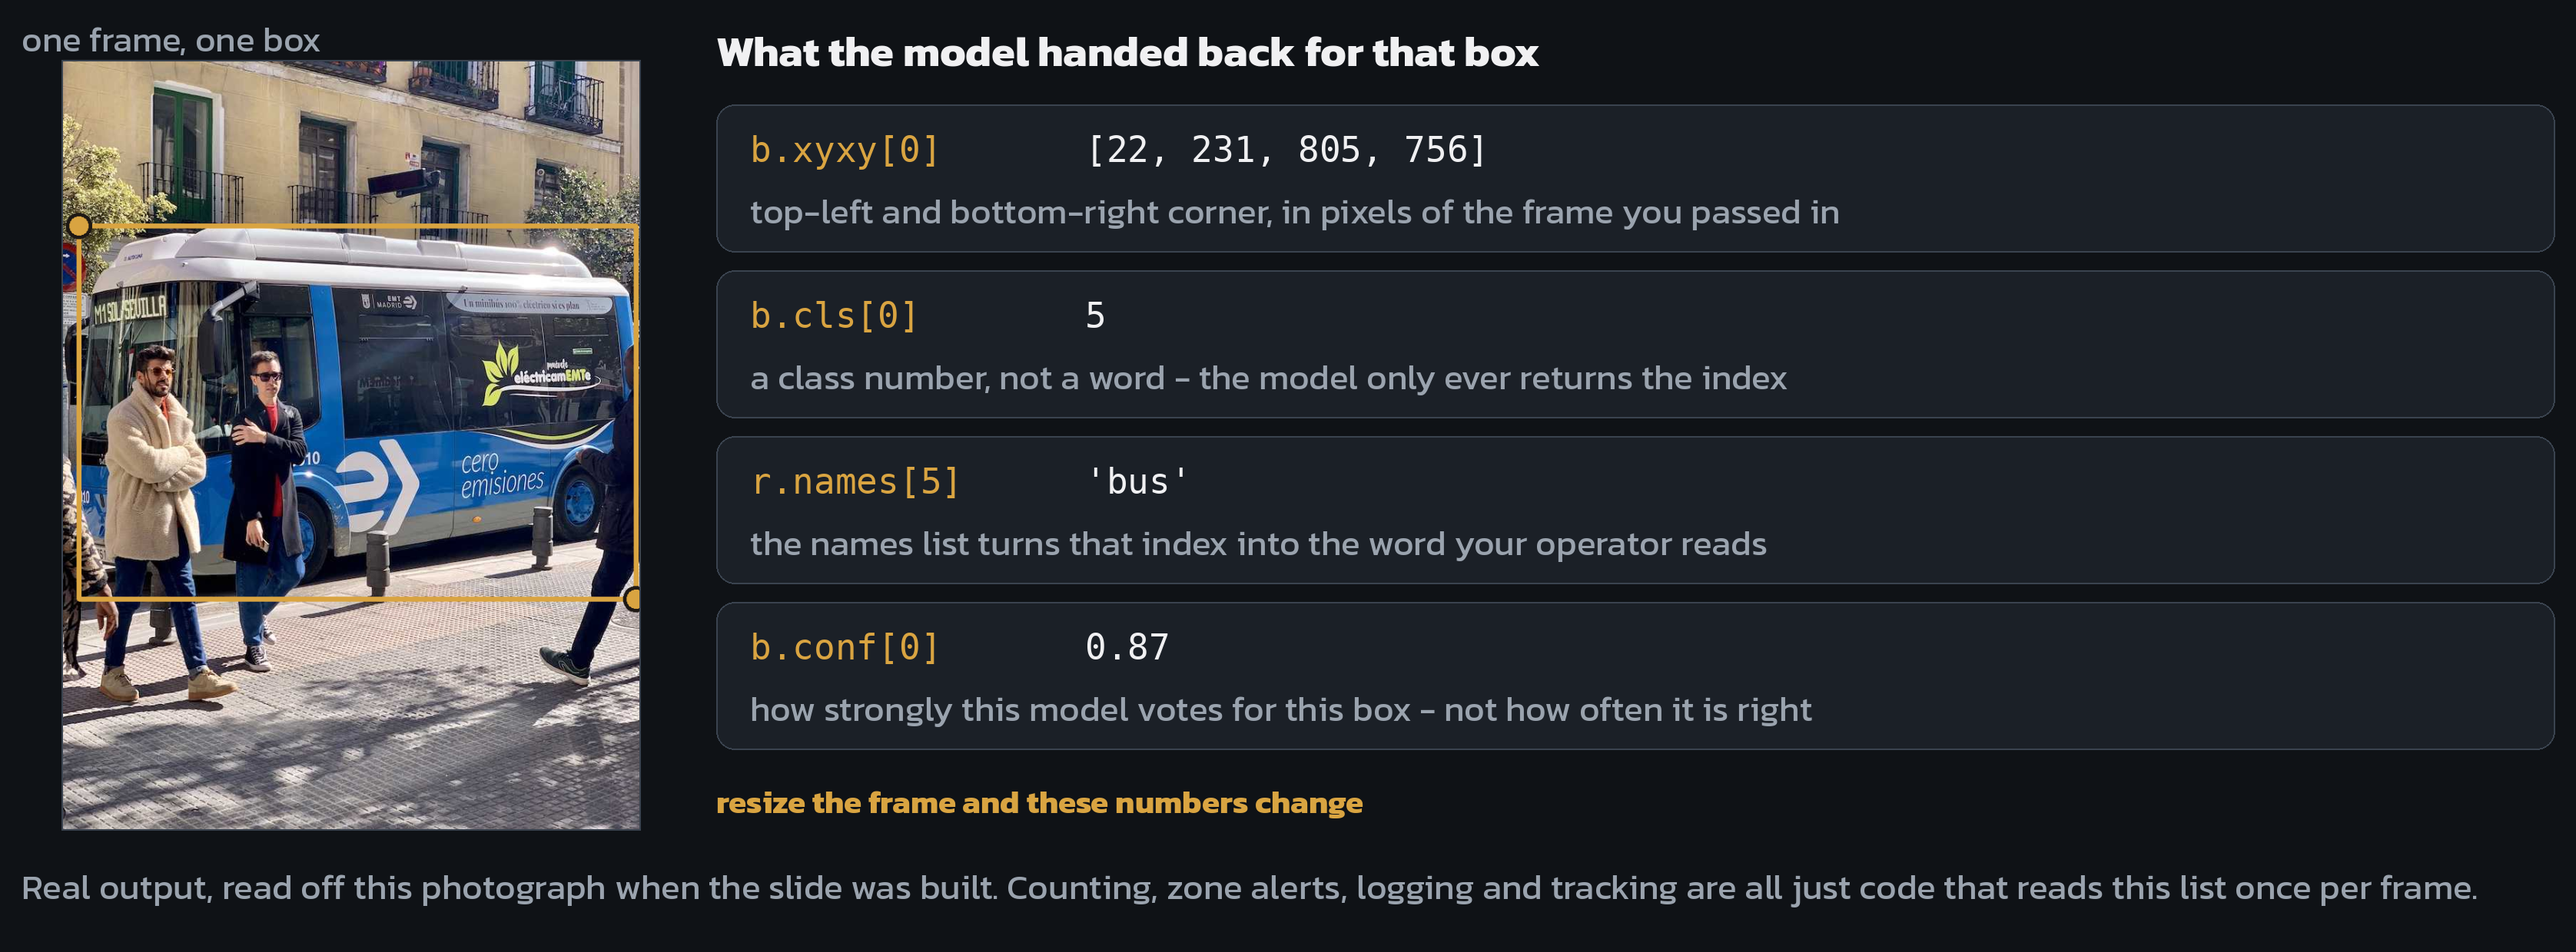
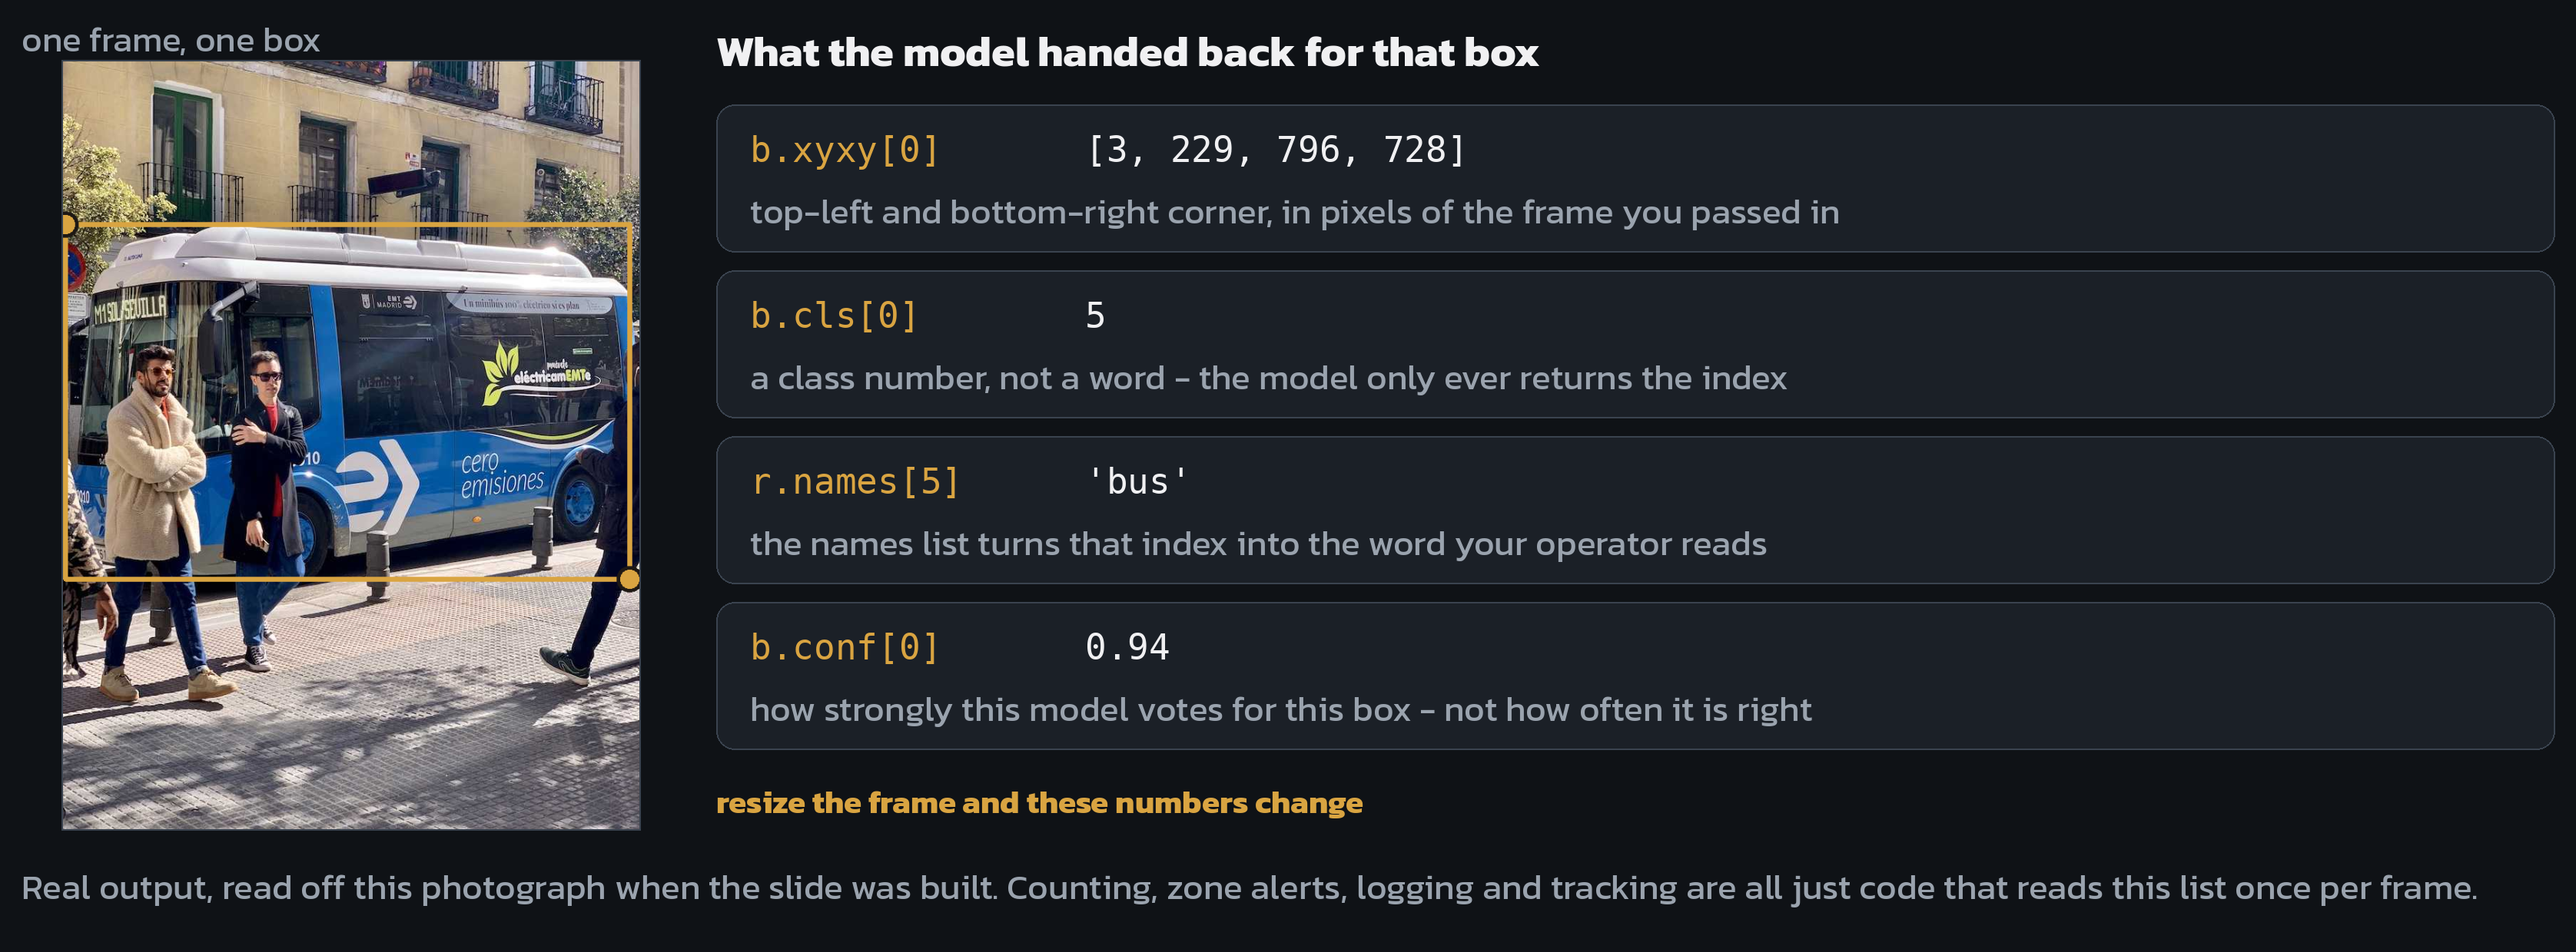
slide_assets: measure chapter 5 with the model the slides actually run
The workshop commands on the chapter 5 slides say model=yolo11n.pt, but
every figure beside them was measured with yolov8n. A learner running the
command from the slide would have got different numbers from the picture
next to it. DET_WEIGHTS/CLS_WEIGHTS now name the same weights the deck
does, and all six figures are re-measured.

YOLO11n is the better model, so two panels had to change to keep their
point:

  ch5_dials  moved to the full frame at conf 0.05 / 0.50 / 0.90. On the
             square crop YOLO11n finds nothing extra even at 0.05 - the
             junk it is holding back sits in the part of the scene the
             crop throws away. Full frame: 11 / 5 / 1.
  ch5_break  the conf=0.05 panel became motion blur, because the dials
             figure now carries the low-threshold lesson and 0.05 on the
             crop changed nothing. Blur k=45 drops 5 objects to 1.

The empty-wall case got stronger on its own: the classifier now answers
"fire screen 0.63" for a blank piece of masonry while the detector
returns an empty list.

Claude-Session: https://claude.ai/code/session_01L2BgT3gVYruUssRpoAW2J5

Changed region(s): [[0.0, 0.2145, 0.2482, 0.6435], [0.4344, 0.1226, 0.5895, 0.1839], [0.4344, 0.6742, 0.4654, 0.7048]]

diff --git a/slide_assets/src/ch5_panels.py b/slide_assets/src/ch5_panels.py
@@ -25,6 +25,12 @@ from ch0_panels import font, wrap, OUT, BG, PANEL, EDGE, GOLD, MUTED, WHITE, S, 
 AI = "/home/claude/deck/ai_samples/"
 os.environ.setdefault("YOLO_VERBOSE", "False")
 
+# The same weights the workshop commands on the slides use. If this ever
+# diverges from the deck, a learner running the slide's command gets different
+# numbers from the figure beside it.
+DET_WEIGHTS = "yolo11n.pt"
+CLS_WEIGHTS = "yolo11n-cls.pt"
+
 GREEN = (111, 191, 115)
 RED = (214, 92, 88)
 BLUE = (91, 141, 239)
@@ -119,8 +125,8 @@ def diff_verdict(base, cnt):
     return "%d found - %s" % (n, "; ".join(bits)), RED
 
 
-def footnote(d, text, fnt, pad=14):
-    ny = H - 60
+def footnote(d, text, fnt, pad=14, start=None):
+    ny = H - 60 if start is None else start
     for ln in wrap(d, text, fnt, (W - 2 * pad) * S):
         d.text((pad * S, ny * S), ln, font=fnt, fill=MUTED)
         ny += 30
@@ -276,35 +282,43 @@ def fig_dials(det):
     f_s = font("Kanit", 23)
     f_n = font("Kanit", 23)
 
-    src = bus_square()
-    confs = [0.25, 0.50, 0.90]
+    # the full frame here, not the square crop - the junk the model is holding
+    # back sits in the parts of the scene the crop throws away
+    src = cv2.imread(AI + "bus.jpg")
+    confs = [0.05, 0.50, 0.90]
     results = []
     for c in confs:
         r = det(src, conf=c, verbose=False)[0]
         results.append((c, r, len(r.boxes), Counter(names_of(r))))
         print("  conf=%.2f -> %d  %s" % (c, len(r.boxes),
                                          dict(Counter(names_of(r)))))
-    base_cnt = results[1][3]
+    base_cnt, base_n = results[1][3], results[1][2]
 
     # no headline here - the slide's own title and subtitle carry it
-    top, cell, gap = 26, 400, 48
-    x0 = (W - 3 * cell - 2 * gap) // 2
+    top, cw, chh, gap = 14, 330, 440, 50
+    x0 = (W - 3 * cw - 2 * gap) // 2
     for i, (c, r, n, cnt) in enumerate(results):
-        x = x0 + i * (cell + gap)
+        x = x0 + i * (cw + gap)
         d.text((x * S, (top - 6) * S), "conf = %.2f" % c, font=f_r, fill=GOLD)
-        panel(d, x, top + 32, cell, cell, fc=(20, 24, 29))
-        paste_fit(img, d, draw_boxes(src, r), (x, top + 32, cell, cell))
-        txt, col = diff_verdict(base_cnt, cnt)
-        yy = top + cell + 44
-        for ln in wrap(d, txt, f_s, cell * S):
-            d.text((x * S, yy * S), ln, font=f_s, fill=col)
-            yy += 30
+        panel(d, x, top + 32, cw, chh, fc=(20, 24, 29))
+        paste_fit(img, d, draw_boxes(src, r, label_px=460),
+                  (x, top + 32, cw, chh))
+        col = GREEN if n == base_n else RED
+        d.text((x * S, (top + chh + 44) * S), "%d found" % n, font=f_r,
+               fill=col)
+        # one short line, so the panel note never runs into the footnote
+        if n > base_n:
+            note = "%d more than at conf 0.50" % (n - base_n)
+        elif n < base_n:
+            note = "%d real objects lost" % (base_n - n)
+        else:
+            note = "the setting the rest of this deck uses"
+        d.text((x * S, (top + chh + 80) * S), note, font=f_s, fill=MUTED)
 
-    footnote(d, "Measured on this photograph when the slide was built. Lower "
-                "the dial and you find more, including things that are not "
-                "there; raise it and you lose real ones. There is no correct "
-                "default - which error costs you more is a business decision, "
-                "and it is settled on footage from the real site.", f_n)
+    footnote(d, "Measured on this photograph when the slide was built. Wind "
+                "the dial down and the model shows you everything it was "
+                "unsure about - look at what those extra boxes are sitting "
+                "on. There is no correct default.", f_n, start=566)
     img.save(OUT + "ch5_dials.png")
     print("ch5_dials.png")
 
@@ -391,7 +405,7 @@ def fig_size(det):
     f_n = font("Kanit", 23)
 
     src = bus_square()
-    sizes = [640, 160, 96]
+    sizes = [640, 320, 96]
     out = []
     for sz in sizes:
         r = det(src, conf=0.5, imgsz=sz, verbose=False)[0]
@@ -454,6 +468,12 @@ def fig_break(det):
     # 3. the camera mounted on its side
     rot = cv2.rotate(src, cv2.ROTATE_90_CLOCKWISE)
 
+    # 4. a moving line, or a camera that cannot hold still
+    k = 45
+    kern = np.zeros((k, k), np.float32)
+    kern[k // 2, :] = 1.0 / k
+    blur = cv2.filter2D(src, -1, kern)
+
     cases = [
         ("Cover half of it", occl, 0.5,
          "a bar across the middle of every object"),
@@ -461,8 +481,8 @@ def fig_break(det):
          "the same scene, much smaller in frame"),
         ("Mount the camera sideways", rot, 0.5,
          "the same photo, turned a quarter turn"),
-        ("Drop conf to 0.05", src, 0.05,
-         "untouched photo, dial wound down"),
+        ("Let it move", blur, 0.5,
+         "motion blur, as on a running line"),
     ]
 
     top, cell, gap = 24, 360, 30
@@ -500,8 +520,8 @@ def fig_break(det):
 
 if __name__ == "__main__":
     from ultralytics import YOLO
-    det = YOLO("yolov8n.pt")
-    cls = YOLO("yolov8n-cls.pt")
+    det = YOLO(DET_WEIGHTS)
+    cls = YOLO(CLS_WEIGHTS)
     print("ch5_list:")
     fig_list(det, cls)
     print("ch5_box:")
